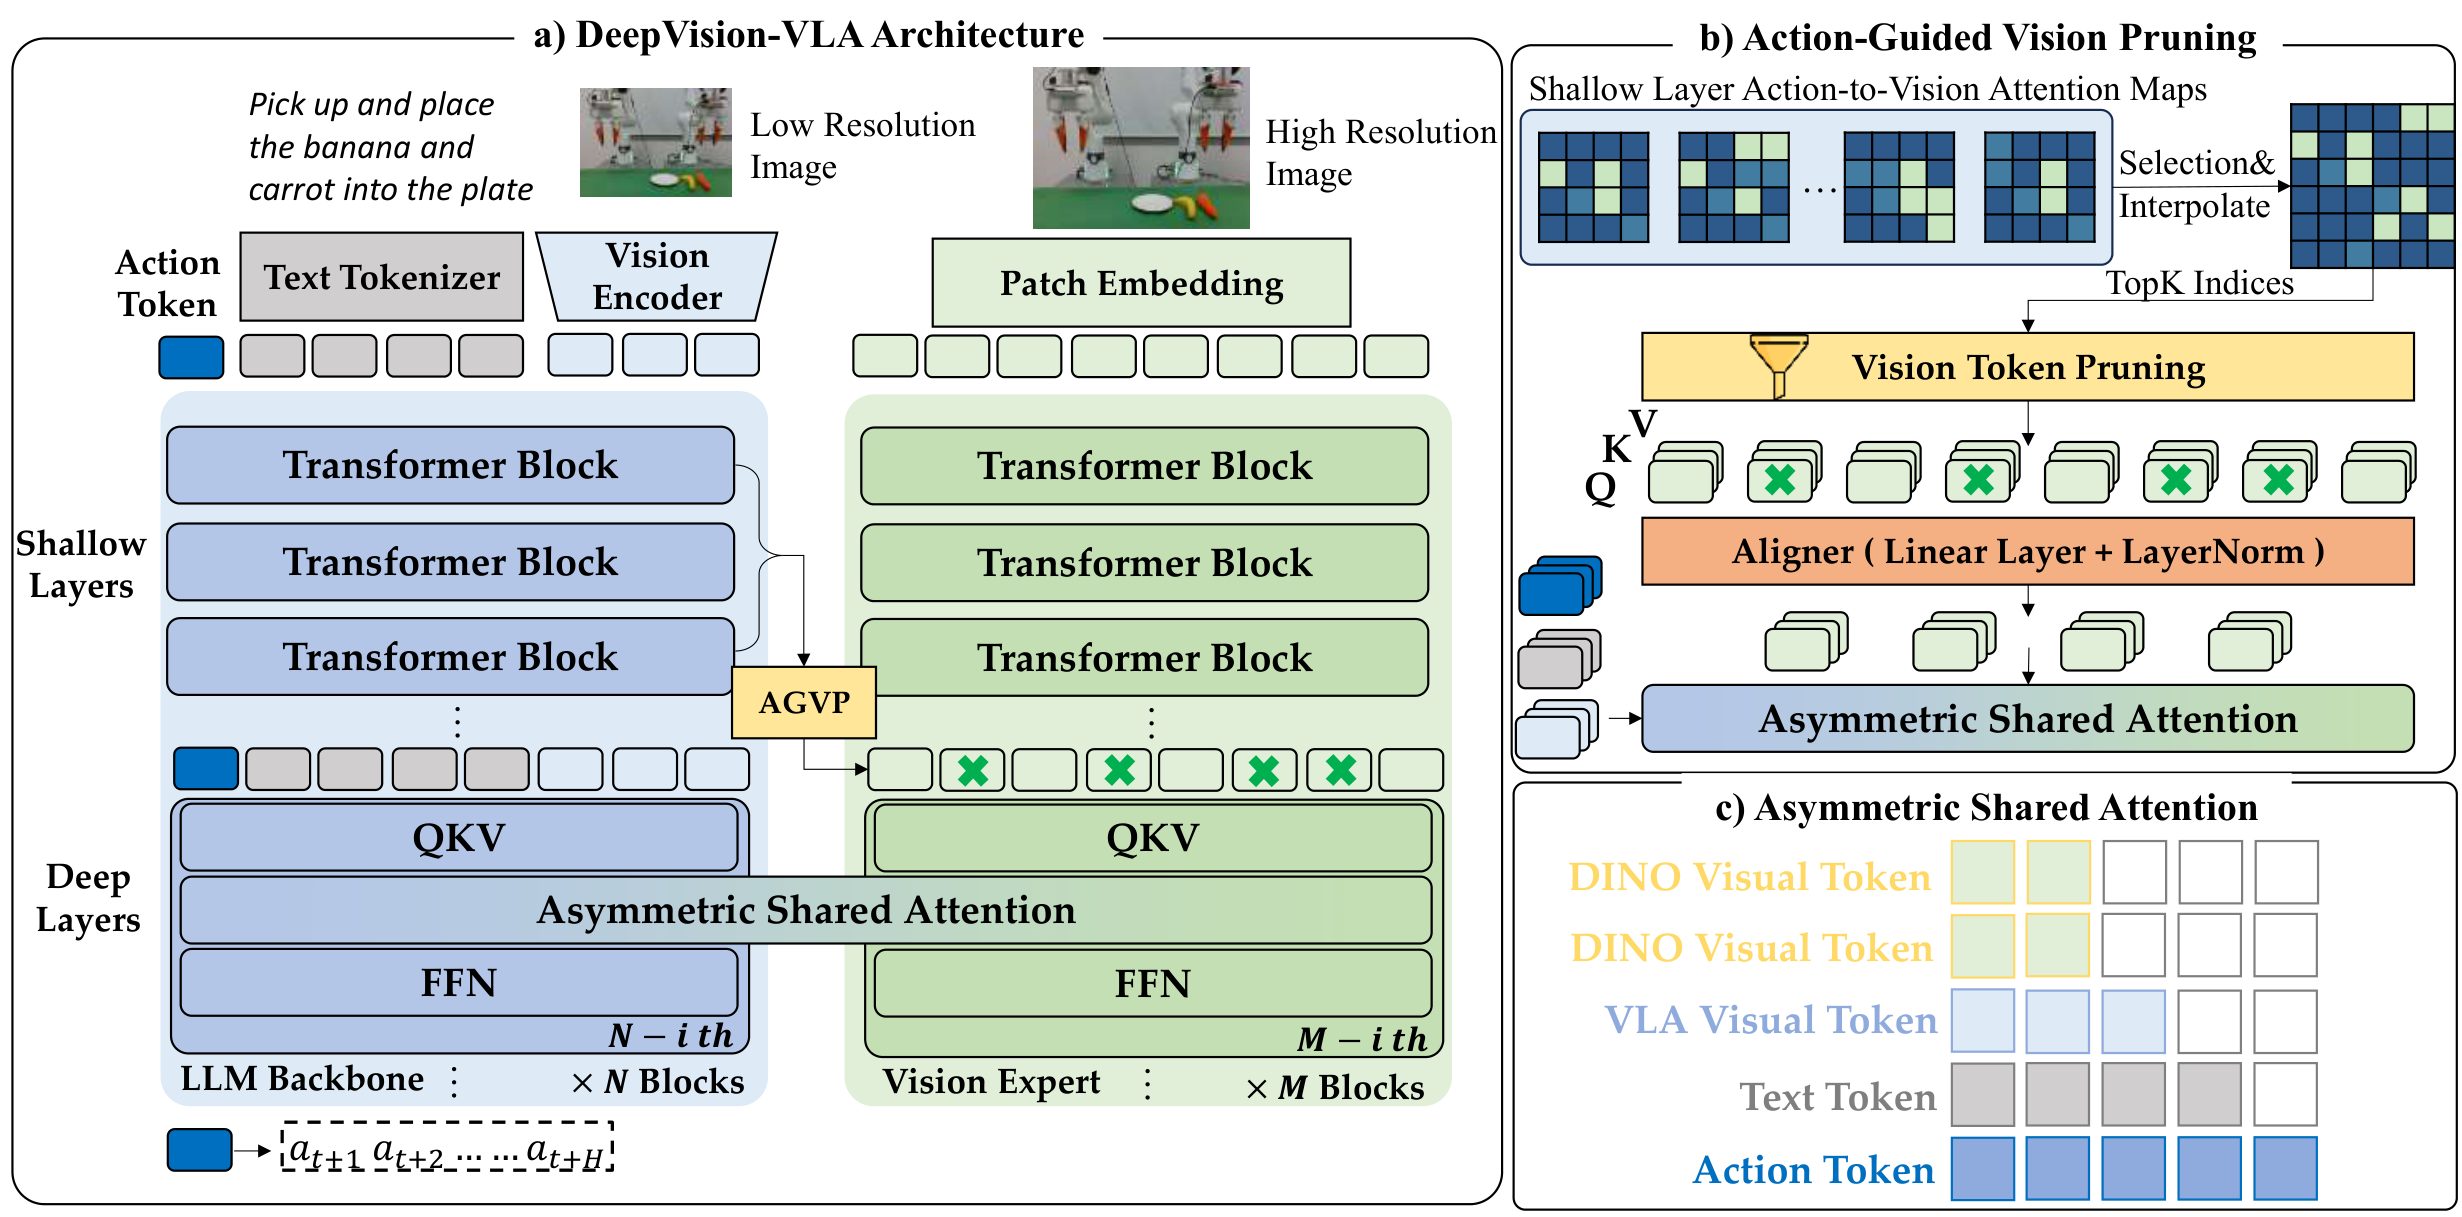
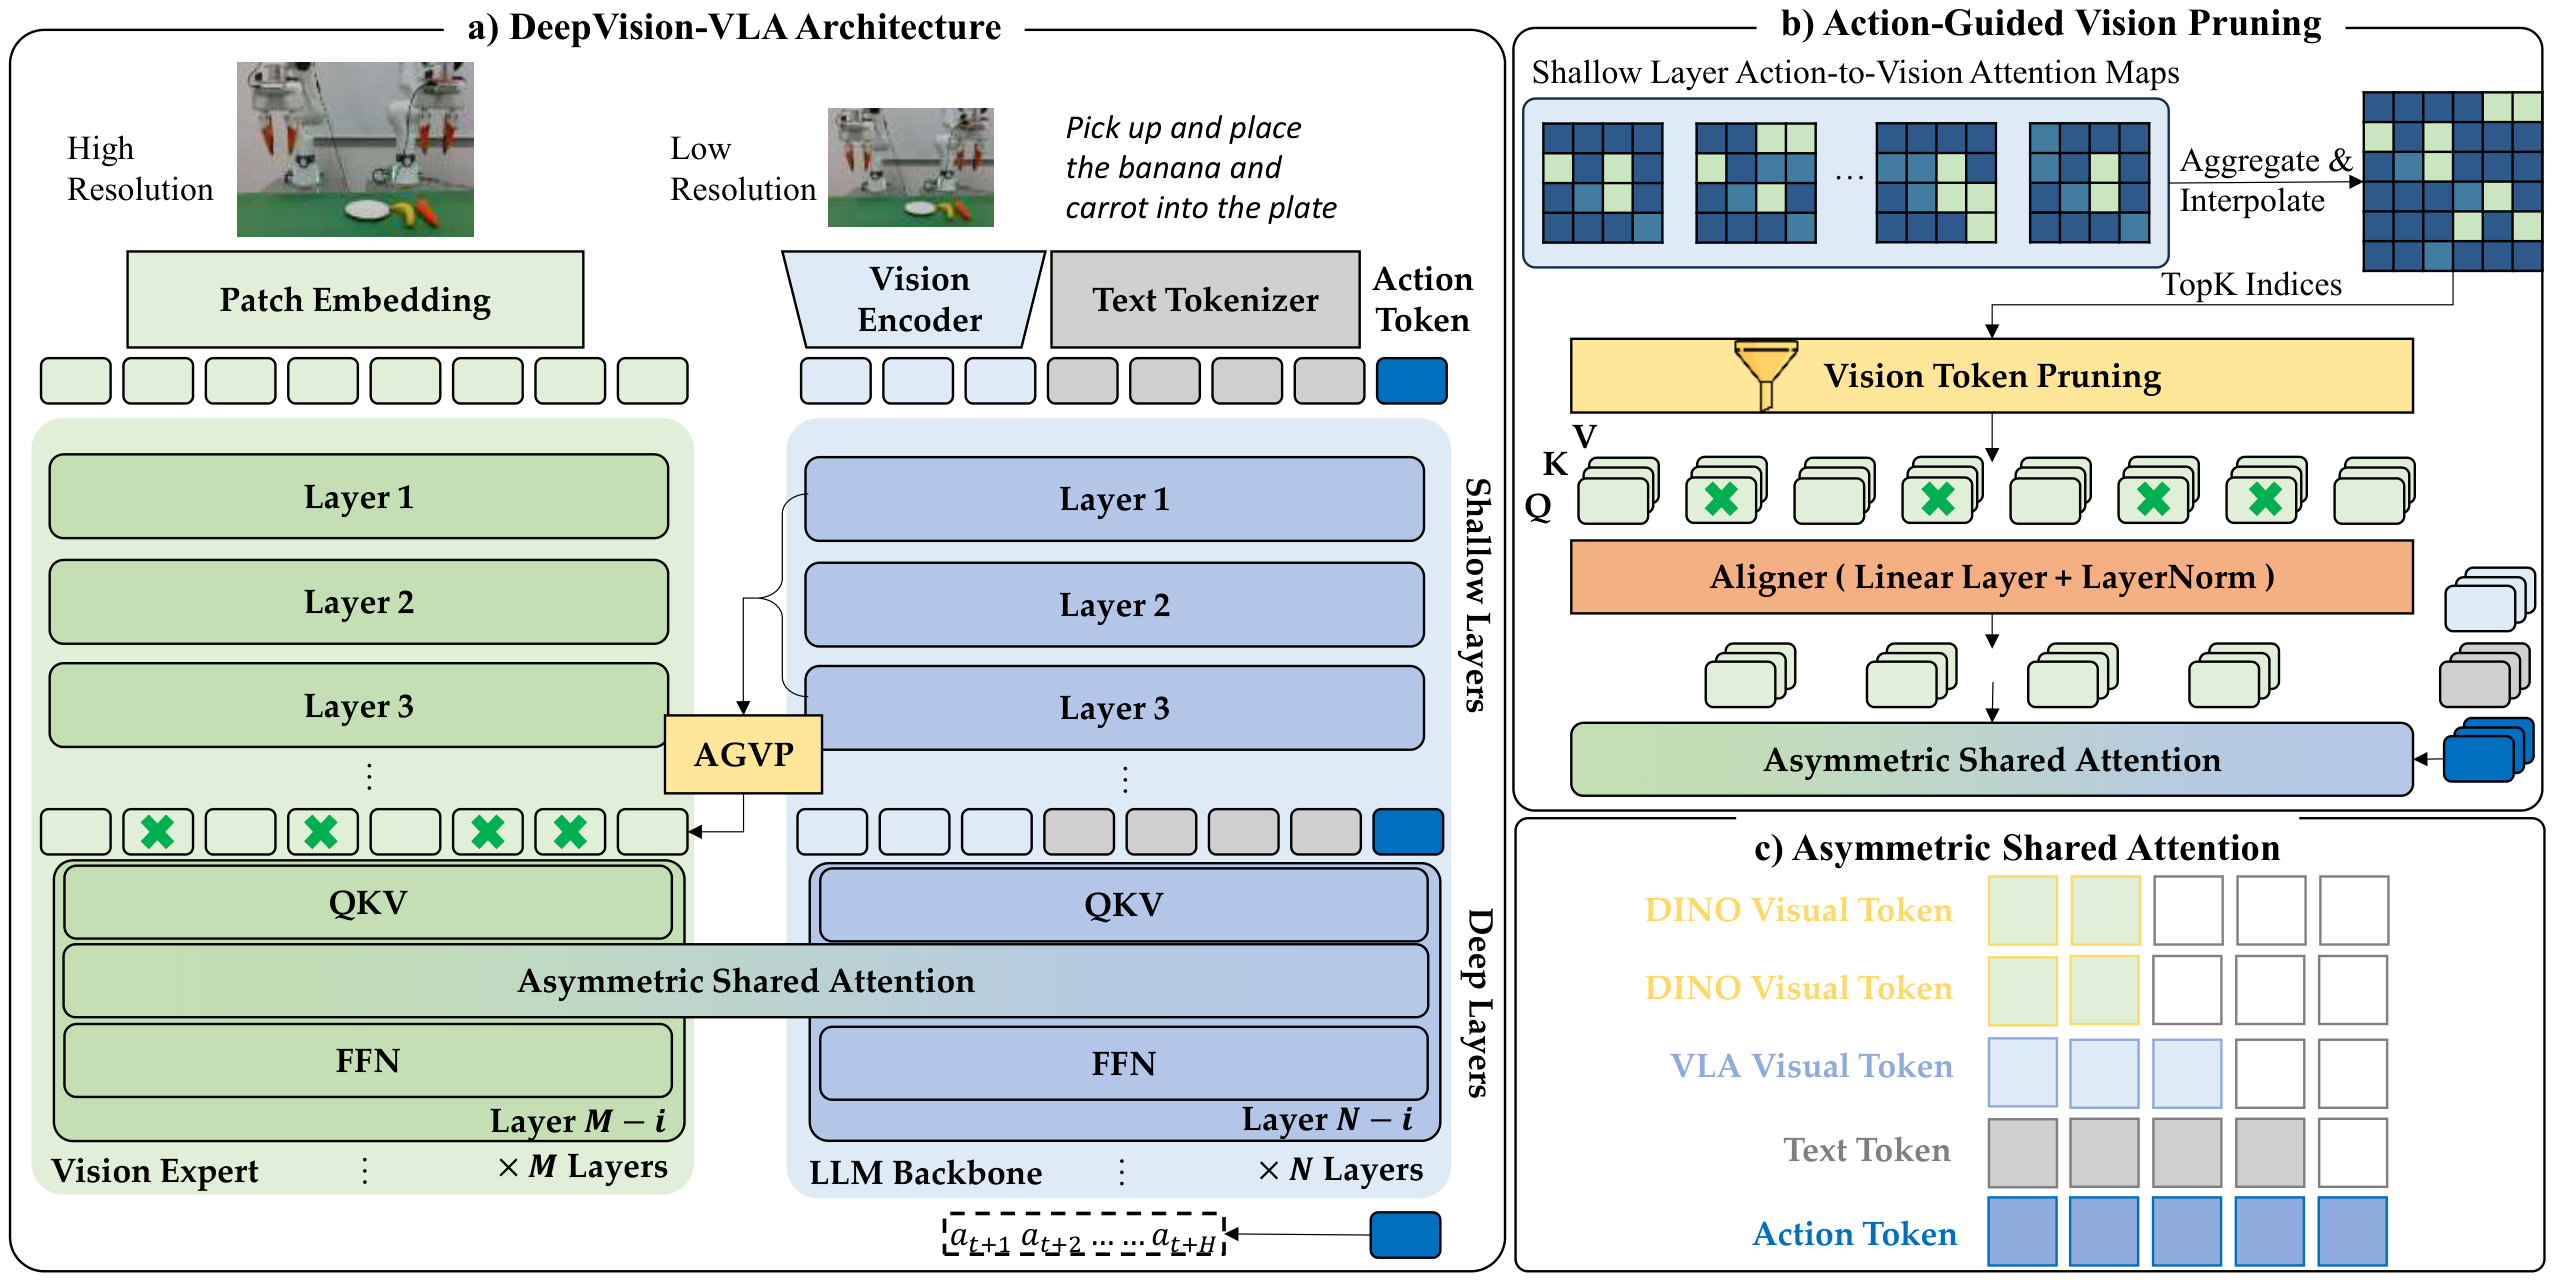
Update figures and enlarge demo layout

diff --git a/static/css/index.css b/static/css/index.css
@@ -285,7 +285,7 @@ body {
 
 .paper-figure {
   margin: 0 auto;
-  max-width: 1100px;
+  max-width: 1320px;
 }
 
 .paper-figure img {
@@ -345,21 +345,21 @@ body {
 }
 
 .method-figure {
-  max-width: 1180px;
+  max-width: 1380px;
 }
 
 .demo-section {
-  max-width: 1440px;
+  max-width: min(96vw, 1780px);
 }
 
 .demo-grid {
   display: grid;
-  grid-template-columns: repeat(2, minmax(0, 1fr));
-  gap: 1.75rem;
+  grid-template-columns: repeat(3, minmax(0, 1fr));
+  gap: 1.1rem;
 }
 
 .demo-card {
-  padding: 1.15rem;
+  padding: 0.9rem;
   border-radius: 22px;
   border: 1px solid rgb(15 23 42 / 0.08);
   background: rgb(255 255 255 / 0.88);
@@ -367,10 +367,10 @@ body {
 }
 
 .demo-card:last-child {
-  grid-column: 1 / -1;
-  max-width: 860px;
-  width: 100%;
-  justify-self: center;
+  grid-column: auto;
+  max-width: none;
+  width: auto;
+  justify-self: stretch;
 }
 
 .demo-card h3 {